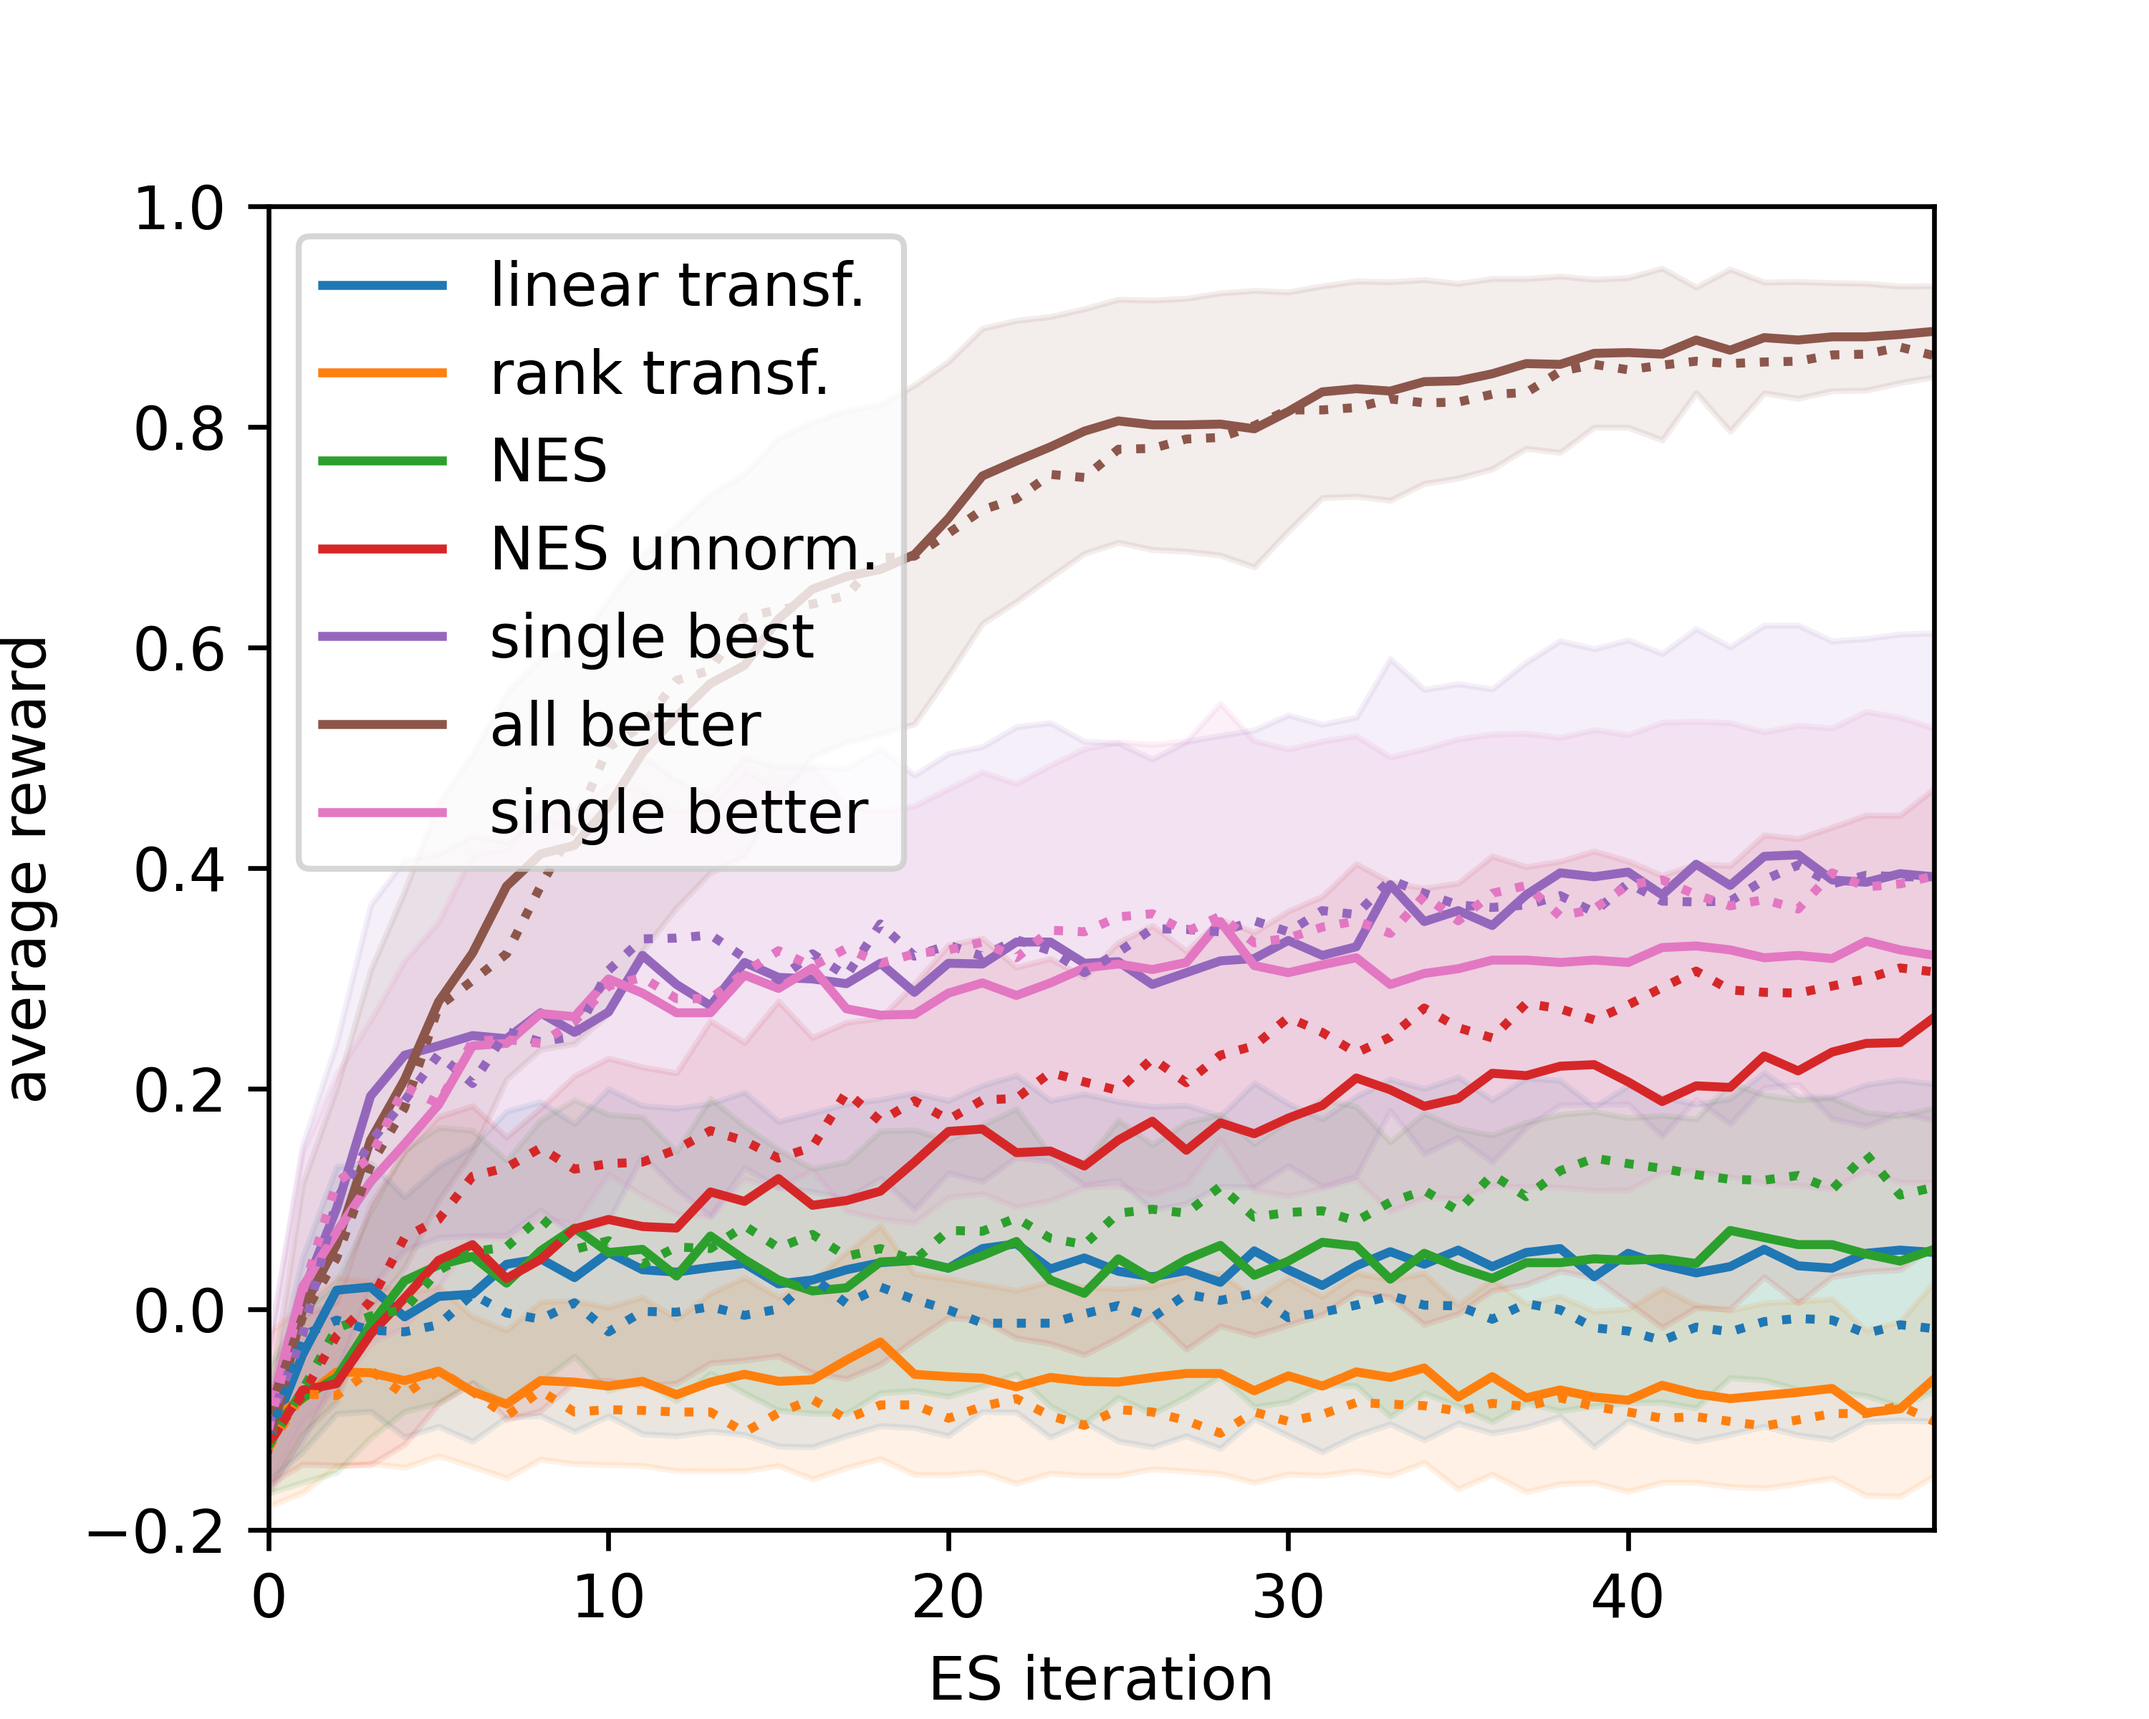
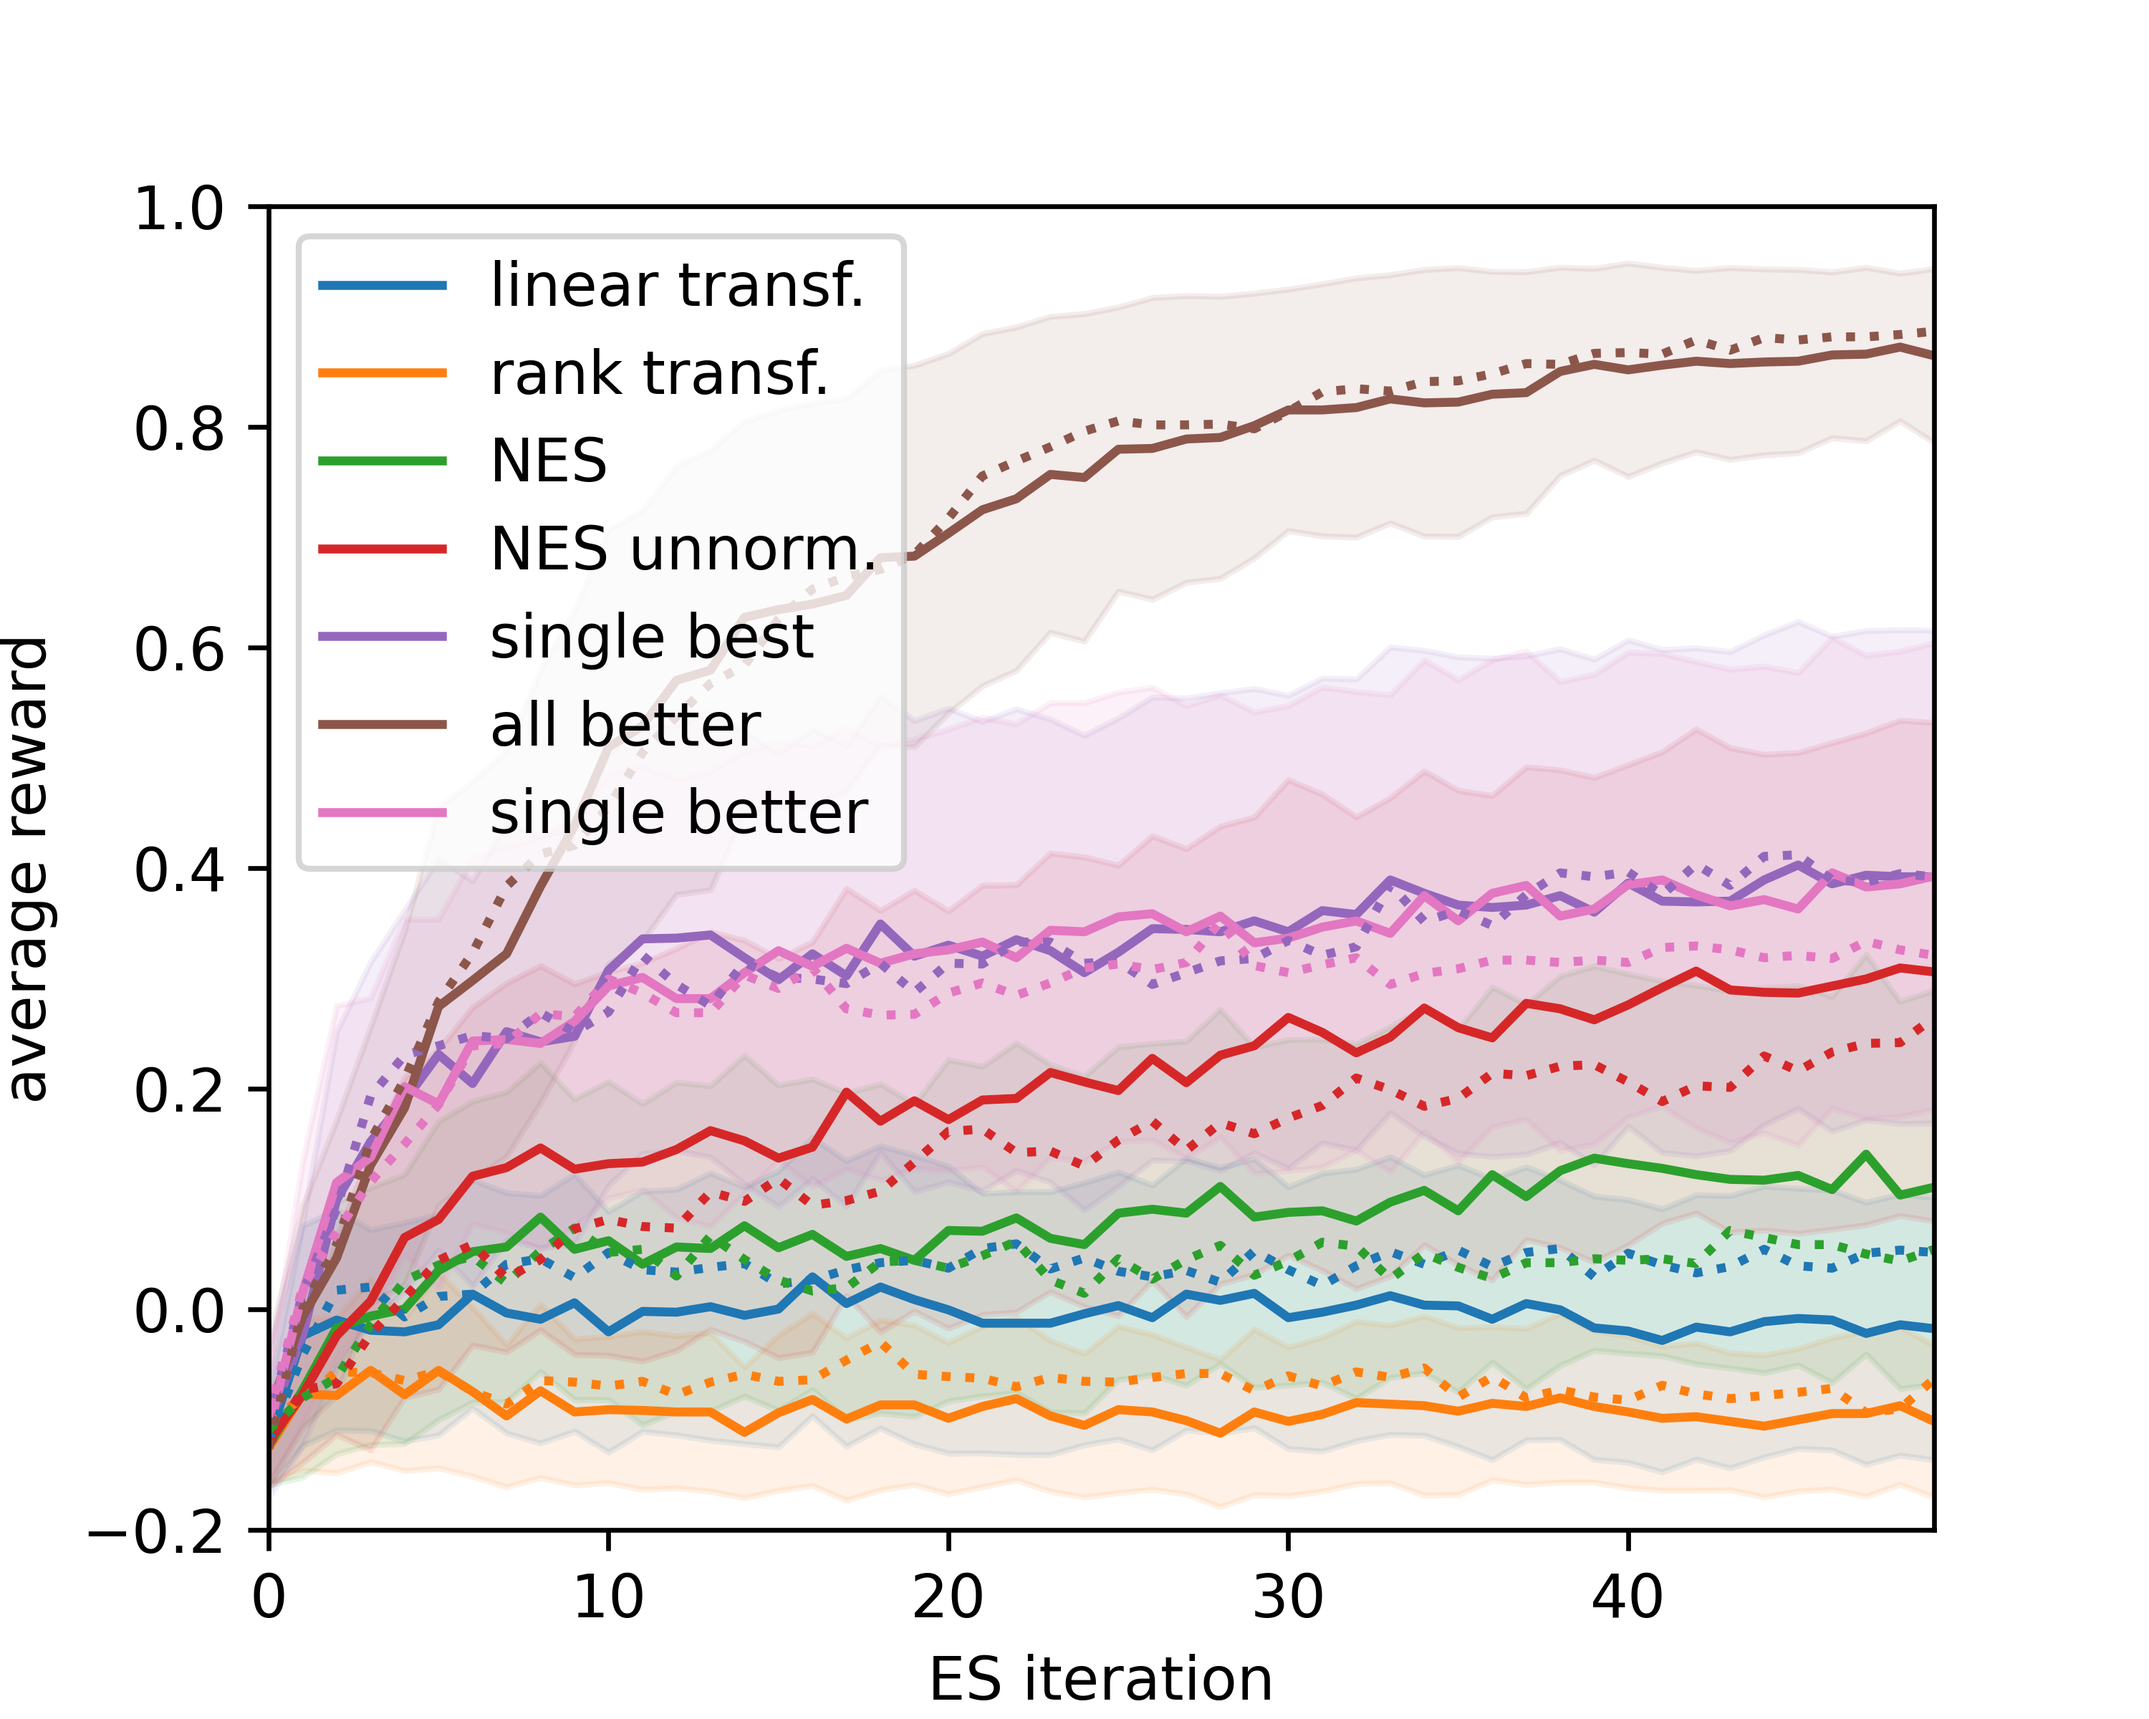
minor bugfixes

diff --git a/experiments/GTN_visualize_score_transform.py b/experiments/GTN_visualize_score_transform.py
@@ -75,10 +75,12 @@ def plot_data(data_wo, data_w, savefig_name):
     plt.show()
 
 if __name__ == "__main__":
-    data_wo_mirr = get_data(with_mirrored_sampling=False, finish_after_solved=False)
-    data_w_mirr = get_data(with_mirrored_sampling=True, finish_after_solved=False)
+    # FIXME: with_mirrored_sampling flags are intentionally reversed to fix bug in GTN.py
+    data_wo_mirr = get_data(with_mirrored_sampling=True, finish_after_solved=False)
+    data_w_mirr = get_data(with_mirrored_sampling=False, finish_after_solved=False)
     plot_data(data_wo=data_wo_mirr, data_w=data_w_mirr, savefig_name='score_transform_no_finish.png')
 
-    data_wo_mirr = get_data(with_mirrored_sampling=False, finish_after_solved=True)
-    data_w_mirr = get_data(with_mirrored_sampling=True, finish_after_solved=True)
+    # FIXME: with_mirrored_sampling flags are intentionally reversed to fix bug in GTN.py
+    data_wo_mirr = get_data(with_mirrored_sampling=True, finish_after_solved=True)
+    data_w_mirr = get_data(with_mirrored_sampling=False, finish_after_solved=True)
     plot_data(data_wo=data_wo_mirr, data_w=data_w_mirr, savefig_name='score_transform_finish.png')

diff --git a/agents/GTN.py b/agents/GTN.py
@@ -524,7 +524,7 @@ class GTN_Worker(GTN_Base):
                 else:
                     raise NotImplementedError('Unknown parameter for grad_eval_type: ' + str(self.grad_eval_type))
                 best_score = min(score_add, score_sub)
-                if score_sub < score_add or self.mirrored_sampling:
+                if score_sub < score_add or not self.mirrored_sampling:
                     self.invert_eps()
                 else:
                     self.add_noise_to_virtual_env() # for debugging
@@ -538,7 +538,7 @@ class GTN_Worker(GTN_Base):
                 else:
                     raise NotImplementedError('Unknown parameter for grad_eval_type: ' + str(self.grad_eval_type))
                 best_score = max(score_add, score_sub)
-                if score_sub > score_add or self.mirrored_sampling:
+                if score_sub > score_add or not self.mirrored_sampling:
                     self.invert_eps()
                 else:
                     self.add_noise_to_virtual_env() # for debugging

diff --git a/experiments/GTNC_params_bohb_gridworld_initial.py b/experiments/GTNC_params_bohb_gridworld_initial.py
@@ -29,7 +29,7 @@ class ExperimentWrapper():
         cs.add_hyperparameter(CSH.UniformFloatHyperparameter(name='gtn_step_size', lower=5e-1, upper=2, log=True, default_value=1))
         cs.add_hyperparameter(CSH.CategoricalHyperparameter(name='gtn_num_grad_evals', choices=[1,2,3], default_value=1))
         cs.add_hyperparameter(CSH.CategoricalHyperparameter(name='gtn_grad_eval_type', choices=['mean', 'minmax'], default_value='minmax'))
-        cs.add_hyperparameter(CSH.UniformIntegerHyperparameter(name='gtn_score_transform_type', lower=1, upper=6, log=False, default_value=5))
+        cs.add_hyperparameter(CSH.UniformIntegerHyperparameter(name='gtn_score_transform_type', lower=0, upper=6, log=False, default_value=5))
         cs.add_hyperparameter(CSH.CategoricalHyperparameter(name='gtn_exploration_gain', choices=[0, 0.001], default_value=0))
         cs.add_hyperparameter(CSH.CategoricalHyperparameter(name='gtn_correct_path_gain', choices=[0, 0.001], default_value=0))
 
